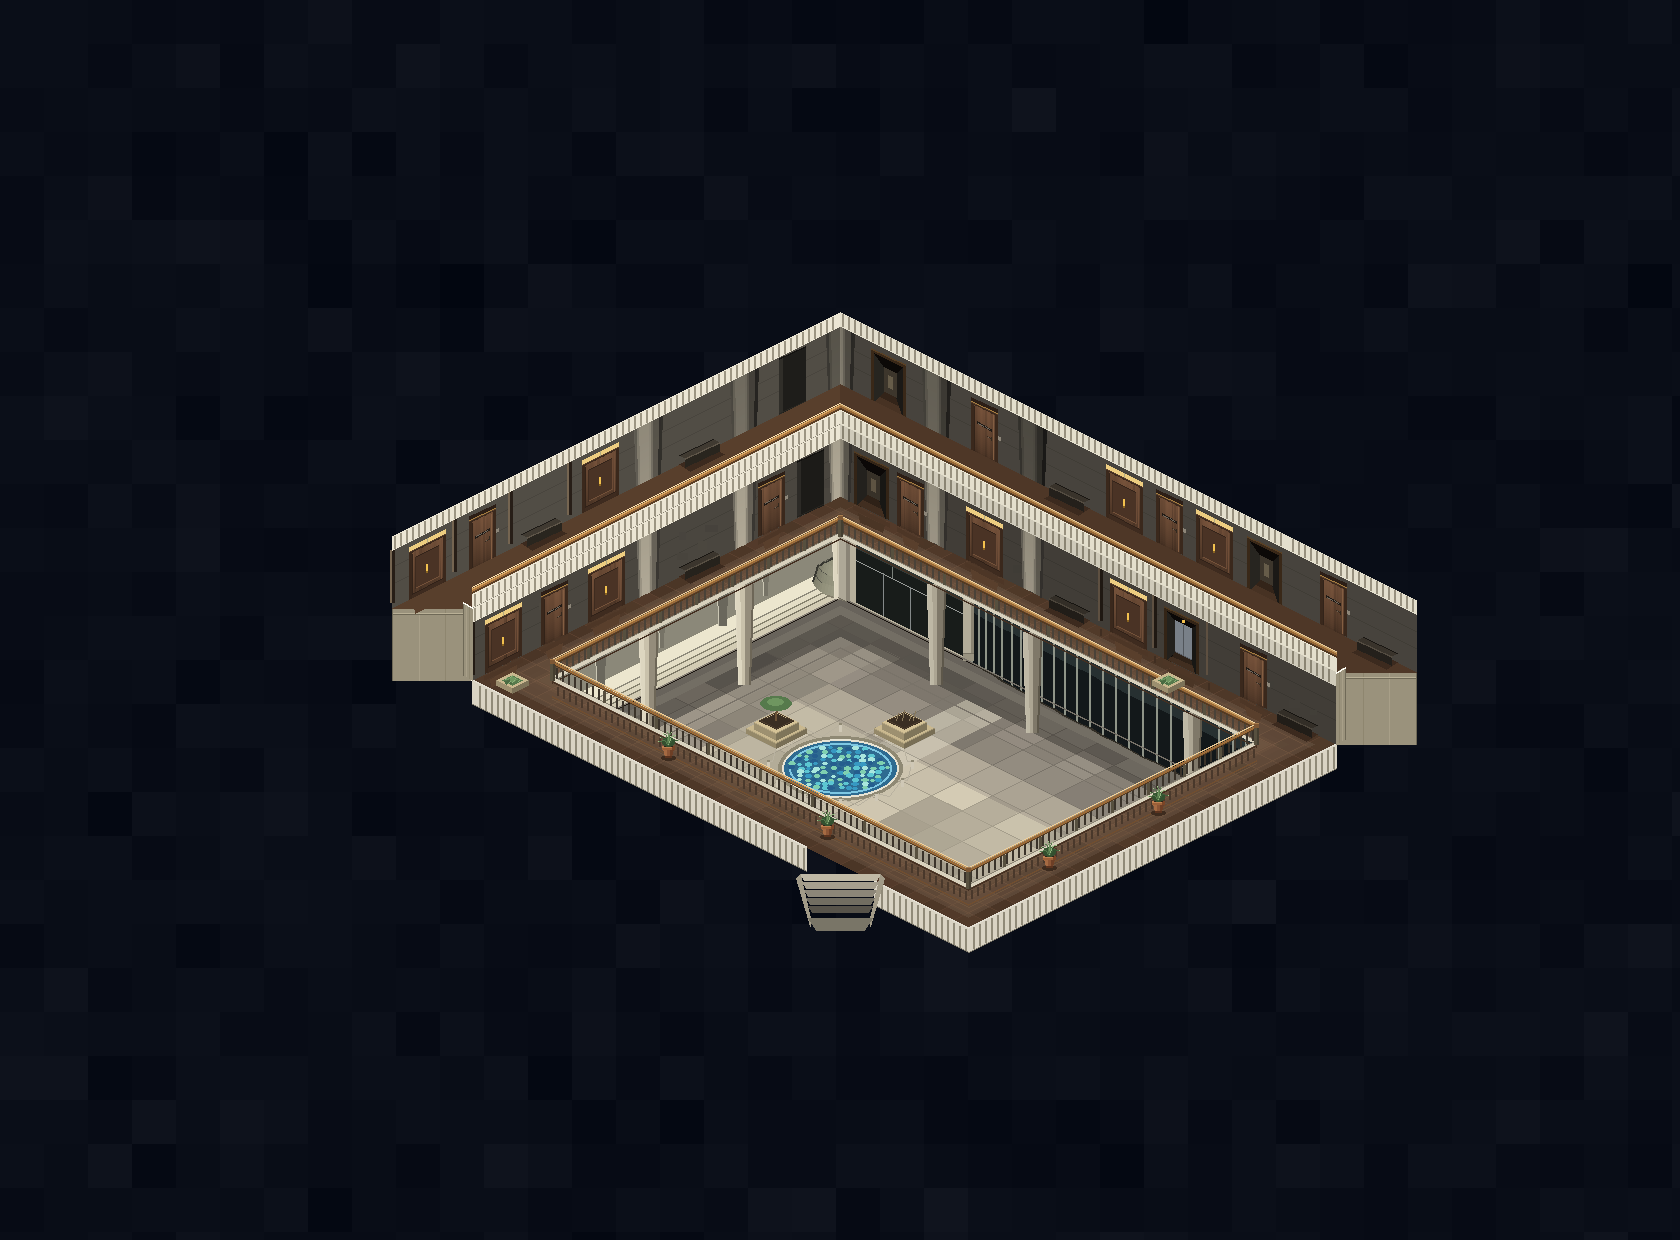
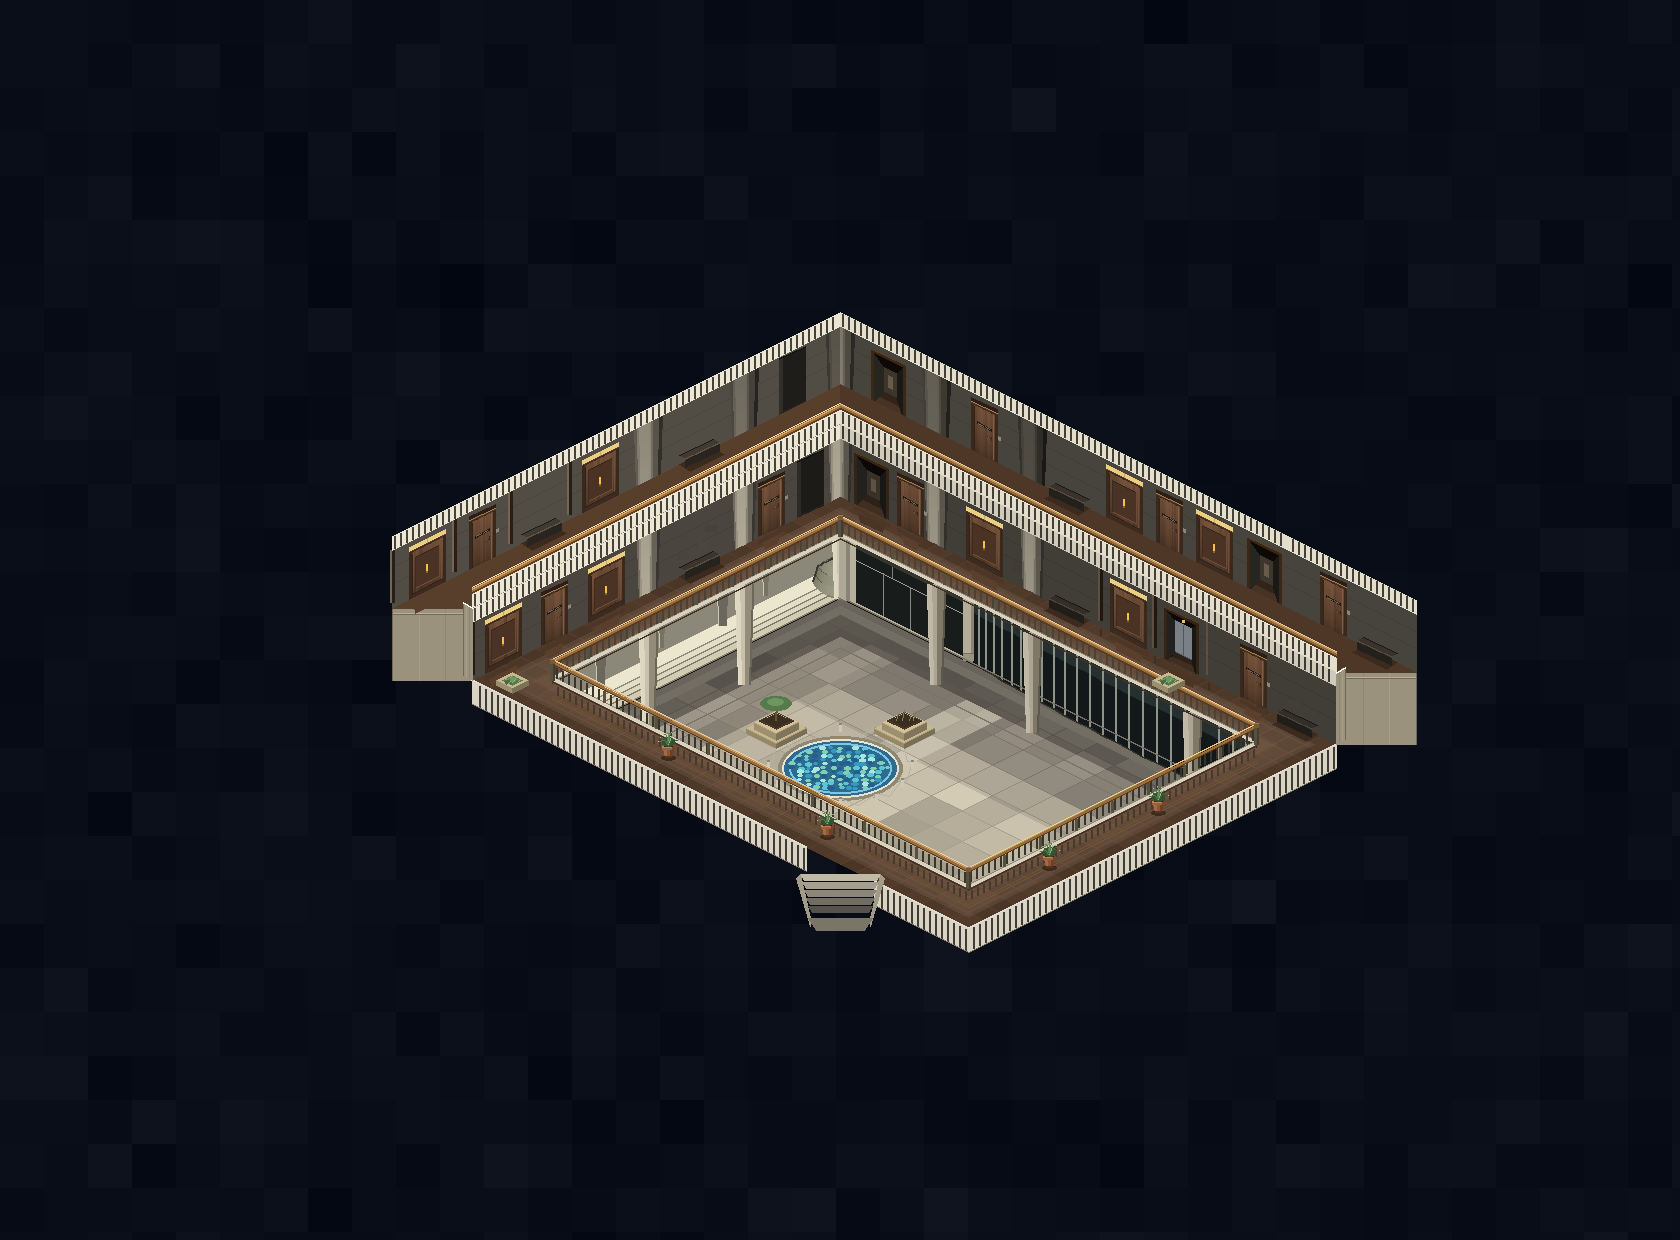
Capitol: the fluted groove is a shadow gap, so the spokes read
The previous commit fixed the Ewa run's clipping and claimed that
alone made the verticals read. It did not — the railings were still
white bands (user: "inspect the railing/fence. it's all white. dont
you see it"), and the reason I missed it is the point of this commit.

FLUTE_GROOVE shipped at #9d9683: lum 150 against the band's 230, a
ratio of 0.65. That is a light-grey pinstripe on near-white. The well
railing that always DID read as a railing runs its pickets at lum
52-68, and that gap is the whole difference between "a fence" and
"white trim". The groove is #45423a (lum 66) now, at width 2 on pitch
6 — a dark gap with a 4px white fin, so the band still reads white.

JUDGE ON THE GAME CANVAS, NEVER ON THE SOURCE PNG AT 1:1. The runtime
resamples the bake at zoom ~1.047 through a LINEAR filter, which
blends a 2px groove into its white neighbours. Off the live canvas the
shipped band read [174,150,198,230,230,230] — groove present in the
data, invisible on screen; it is [116,66,165,230,230,230] now. A 1:1
crop of the bake shows the old groove crisply and is a lie about what
the player sees, and reading one is exactly what made the last pass
wrong. The old "judge on the downscaled bake" rule is the same rule:
SS 1 only moved the resample from LANCZOS at bake time to bilinear at
draw time.

Swept before choosing (FLUTE_GROOVE/FLUTE_W are module-level for
exactly this): at w2, #8a8271 is still white, #6e6a5c faint, #585446
[…]

diff --git a/site/js/main.js b/site/js/main.js
@@ -27,7 +27,7 @@ const MAP_V = 8;
    map/capitol.json come out of ONE run of tools/render_capitol.py and
    are only valid as a set (hotspot px are baked against the image).
    Hand-bumped, same rule as MAP_V. */
-const CAP_V = 38;
+const CAP_V = 39;
 /* THE GAME LANDS IN THE CAPITOL, NOT ON THE MAP (2026-08-24, user's
    call: "make that the default view (replacing the map) for now. keep
    the map in case we want to use it later"). Set to null to put the

diff --git a/site/index.html b/site/index.html
@@ -253,6 +253,6 @@
   <!-- UI sound: synthesised at runtime, no audio files. Loaded
        BEFORE main.js, which calls window.SFX from its handlers. -->
   <script src="js/sfx.js?v=20260819125954"></script>
-  <script src="js/main.js?v=20260827140545"></script>
+  <script src="js/main.js?v=20260827142422"></script>
 </body>
 </html>

diff --git a/tools/render_capitol.py b/tools/render_capitol.py
@@ -186,7 +186,27 @@ PICKET_W = 2               # judged on the DOWNSCALED bake: at SS 2 a
                            # LANCZOS renders the run as grey haze.
 FLUTE_PITCH = 6            # the white fluted bands, same rule
 FLUTE_FIELD = "#ece6d4"    # the band's lit face
-FLUTE_GROOVE = "#9d9683"   # the groove between two flutes — see white_f
+# THE GROOVE IS A SHADOW GAP, NOT A TINT (2026-08-27, user: "inspect
+# the railing/fence. it's all white. dont you see it"). It shipped at
+# #9d9683 — lum 150 against the band's 230, a ratio of 0.65 — which is
+# a light-grey pinstripe on near-white, i.e. no visible spokes at all.
+# The well railing that DOES read as a railing runs its pickets at lum
+# 52-68, and that gap is the whole difference: one reads as a fence,
+# the other as white trim. #45423a is lum 66, so every railing in the
+# room now speaks the same language.
+#
+# JUDGE THIS ON THE GAME CANVAS, NEVER ON THE SOURCE PNG AT 1:1. The
+# runtime resamples the bake at zoom ~1.047 through a LINEAR filter,
+# which blends a 2px groove with its white neighbours; measured off
+# the live canvas the shipped groove came back as [174,150,198,230,
+# 230,230] — present in the data, invisible on screen. A 1:1 crop of
+# the bake hides exactly that, and reading one is what made an earlier
+# pass call this fixed when it was not.
+FLUTE_GROOVE = "#45423a"   # the shadow gap between two flutes
+# Width 2 on FLUTE_PITCH 6 — a DARK GAP with a 4px white fin, not a
+# 50/50 bar. 3px was swept and reads as a balustrade too, but it turns
+# half of every band dark and the fascia stops reading as white trim.
+FLUTE_W = 2
 
 
 def white_f(f):
@@ -1572,7 +1592,7 @@ def fluted_band(d, e0, e1, y_top, depth, f=1.0):
               fill=shade(hx(FLUTE_FIELD), white_f(f)))
     for b in even_run(p0, p1, FLUTE_PITCH):
         d.line([(b[0], b[1] + 2), (b[0], b[1] + depth - 1)],
-               fill=shade(hx(FLUTE_GROOVE), white_f(f)), width=2)
+               fill=shade(hx(FLUTE_GROOVE), white_f(f)), width=FLUTE_W)
     d.line([p0, p1], fill=shade(hx("#f7f3e6"), f), width=2)
     d.line([(p0[0], p0[1] + depth), (p1[0], p1[1] + depth)],
            fill=shade(hx("#8a8474"), f), width=1)
@@ -2591,7 +2611,7 @@ def paint_upper_level(d):
         q(58, 72, shade(hx(FLUTE_FIELD), white_f(f)))
         for b in even_run(e0, e1, FLUTE_PITCH):
             d.line([up(b, 59), up(b, 71)],
-                   fill=shade(hx(FLUTE_GROOVE), white_f(f)), width=2)
+                   fill=shade(hx(FLUTE_GROOVE), white_f(f)), width=FLUTE_W)
 
         # ---- the walkway, standing in front of the wall
         d.polygon([a0, a1, e1, e0], fill=shade(FLOOR, f * 0.94))
@@ -2637,7 +2657,7 @@ def paint_upper_level(d):
         if b[0] < w0[0]:
             continue
         d.line([up(b, 59), up(b, 71)],
-               fill=shade(hx(FLUTE_GROOVE), white_f(fdh)), width=2)
+               fill=shade(hx(FLUTE_GROOVE), white_f(fdh)), width=FLUTE_W)
     d.polygon([aw0, aw1, w1, w0], fill=shade(FLOOR, fdh * 0.94))
     d.line([aw0, aw1], fill=shade(FLOOR_SH, fdh), width=1)
     bench_at(d, w0, w1, 0.72, fdh)
@@ -2737,7 +2757,7 @@ def paint_walls(d):
         q(58, 72, shade(hx(FLUTE_FIELD), white_f(f)))
         for b in even_run(e0, e1, FLUTE_PITCH):
             d.line([up(b, 59), up(b, 71)],
-                   fill=shade(hx(FLUTE_GROOVE), white_f(f)), width=2)
+                   fill=shade(hx(FLUTE_GROOVE), white_f(f)), width=FLUTE_W)
         # NO benches: drawn floating mid-walkway they read as brown
         # bars sitting on the railing (user-caught, removed 2026-08-22)
 
@@ -2775,7 +2795,7 @@ def paint_walls(d):
         if b[0] < w0[0]:
             continue
         d.line([up(b, 59), up(b, 71)],
-               fill=shade(hx(FLUTE_GROOVE), white_f(fw)), width=2)
+               fill=shade(hx(FLUTE_GROOVE), white_f(fw)), width=FLUTE_W)
     return doors
 
 

diff --git a/CLAUDE.md b/CLAUDE.md
@@ -2069,9 +2069,47 @@ user's call).
       now renders at zoom ~1.05, so scene px are display px and
       **1:1 IS game scale**. The old "judge on the downscaled bake"
       rule still applies to anything that ships at SS 2.
-    - The groove (`FLUTE_GROOVE`) was NOT deepened and no pickets
-      came back: fixing the clip alone made the verticals read. Both
-      are now module-level constants if it ever needs a sweep.
+    - **The clip was only HALF of it, and the claim that fixing it
+      alone made the verticals read was WRONG** — corrected the same
+      day, see the groove rule below.
+  - **THE GROOVE IS A SHADOW GAP, NOT A TINT** (2026-08-27, user:
+    "inspect the railing/fence. it's all white. dont you see it").
+    `FLUTE_GROOVE` shipped at #9d9683 — lum 150 against the band's
+    230, a ratio of 0.65, which is a light-grey pinstripe on
+    near-white and reads as no spokes at all. It is #45423a (lum 66)
+    now, at `FLUTE_W` 2 on `FLUTE_PITCH` 6: a DARK gap with a 4px
+    white fin, so the band still reads as white trim. The well
+    railing that always DID read as a railing runs its pickets at lum
+    52-68 — that gap was the entire difference between the two, and
+    every railing in the room now speaks the same language.
+    - **JUDGE THIS ON THE GAME CANVAS, NEVER ON THE SOURCE PNG AT
+      1:1.** This is the rule the whole episode exists to write down.
+      The runtime resamples the bake at zoom ~1.047 through a LINEAR
+      filter, which blends a 2px groove into its white neighbours.
+      Read off the live canvas the shipped band came back as
+      `[174,150,198,230,230,230]` — the groove is in the data and
+      invisible on screen. A 1:1 crop of the bake shows it crisply
+      and is a LIE about what the player sees; reading one is exactly
+      what made the first pass call this fixed when it was not. Grab
+      pixels with `canvas.getContext('2d').getImageData(...)`, or
+      `drawImage` a sub-rect into a scratch canvas and look at that.
+    - The old "judge on the DOWNSCALED bake" rule (written for SS 2)
+      is the same rule; `SS 1` did not retire it, it only changed
+      WHERE the resample happens — from LANCZOS at bake time to
+      bilinear at draw time. Either way, never judge at 1:1.
+    - Swept before choosing (`FLUTE_GROOVE`/`FLUTE_W` are
+      module-level for exactly this, same pattern as `COL_FACETS`):
+      at w2, #8a8271 is still white, #6e6a5c is faint, #585446 reads,
+      #45423a is crisp. w3 gives a 50/50 bar that reads as a
+      balustrade too, but it turns half of every band dark and the
+      fascia stops reading as white trim — rejected on the
+      whole-building view, not on a strip.
+    - This constant drives EVERY fluted band (both parapets, both
+      slab bands, the makai fascia), which is correct: the user's
+      complaint was the room's white bands generally, not one rail.
+    - Still no pickets on the third-floor rail — the 2026-08-24 call
+      stands. The spokes read now because the groove is dark, not
+      because the parapet became an open balustrade.
   - **The third-floor rail is a SOLID white fluted PARAPET with the
     koa cap on TOP — no pickets** (2026-08-24, user: "the pickets for
     the railings are showing over the white, which is incorrect").
